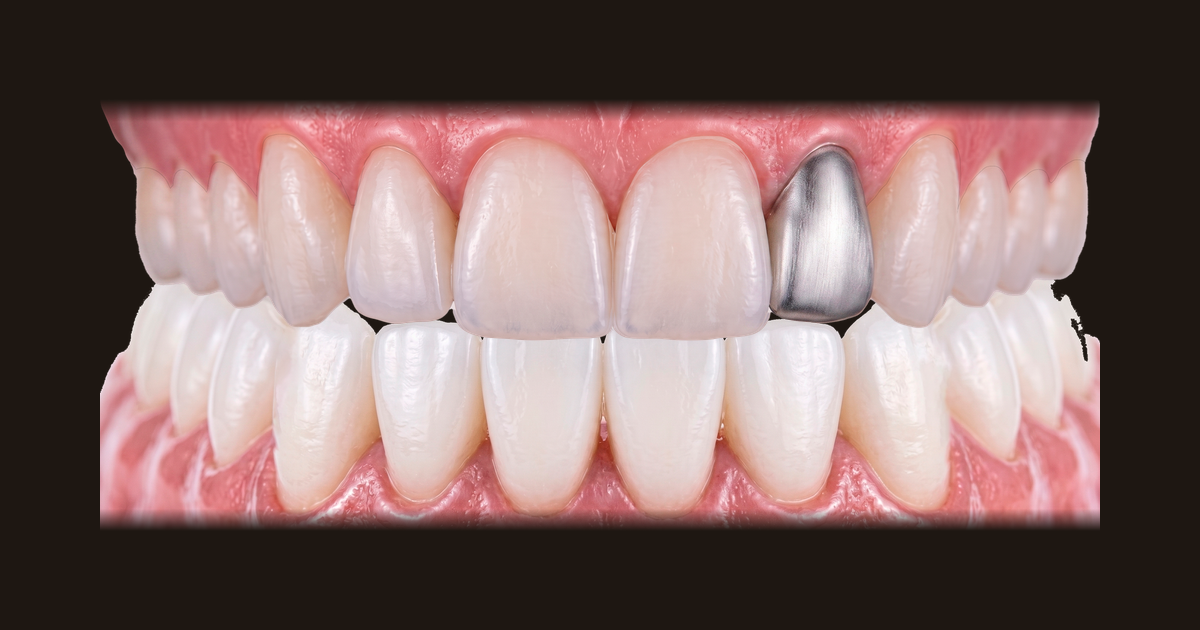
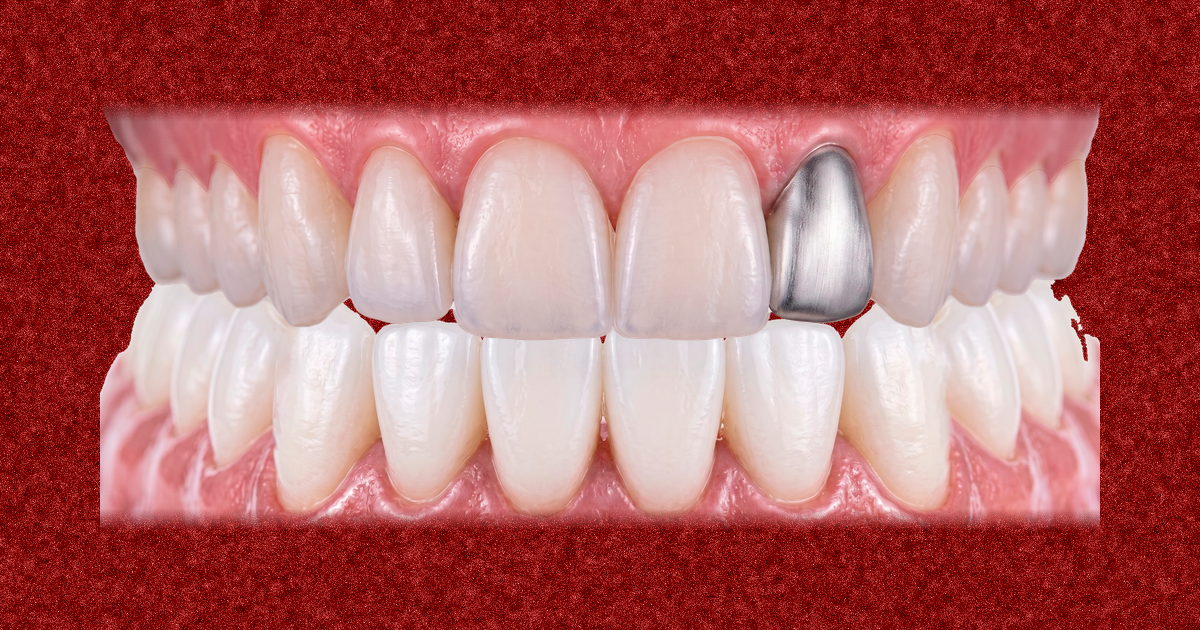
first commit

diff --git a/app/not-found.tsx b/app/not-found.tsx
@@ -1,21 +1,23 @@
-import PaintedButton from "@/components/art/PaintedButton";
+import Link from "next/link";
 
+/** 404 — de momento solo existe la home. */
 export default function NotFound() {
   return (
-    <div className="grid min-h-screen place-items-center bg-gradient-to-b from-[#16294a] to-[#1e1712] px-6 text-center">
+    <div className="grid min-h-screen place-items-center px-6 text-center">
       <div>
         <h1
-          className="display text-7xl font-black text-[var(--color-canvas)]"
-          style={{ filter: "url(#paint-wobble)" }}
+          className="-rotate-1 text-4xl text-[var(--color-circus-yellow)] md:text-6xl"
+          style={{ fontFamily: "var(--font-crayon)", filter: "url(#paint-wobble)" }}
         >
-          404
+          no busques lo que no hay
         </h1>
-        <p className="mt-4 italic opacity-80">Esta parte del cuadro todavía no fue pintada.</p>
-        <div className="mt-8">
-          <PaintedButton href="/" color="var(--color-ultramarine)">
-            Volver al lienzo
-          </PaintedButton>
-        </div>
+        <Link
+          href="/"
+          className="mt-10 inline-block text-xl text-[var(--color-circus-yellow)] underline underline-offset-8 opacity-80 transition-opacity hover:opacity-100"
+          style={{ fontFamily: "var(--font-crayon)" }}
+        >
+          volver
+        </Link>
       </div>
     </div>
   );

diff --git a/app/shows/page.tsx b/app/shows/page.tsx
@@ -1,9 +1,10 @@
 import type { Metadata } from "next";
+import { notFound } from "next/navigation";
 import Reveal from "@/components/ui/Reveal";
 import PaintedButton from "@/components/art/PaintedButton";
 import { SHOWS, type ShowStatus } from "@/data/shows";
 import { formatShowDate } from "@/lib/format";
-import { SITE } from "@/lib/site";
+import { ONLY_HOME, SITE } from "@/lib/site";
 
 export const metadata: Metadata = {
   title: "Shows",
@@ -55,6 +56,9 @@ function ShowsJsonLd() {
 }
 
 export default function ShowsPage() {
+  // De momento solo está habilitada la home (ver ONLY_HOME en lib/site.ts).
+  if (ONLY_HOME) notFound();
+
   return (
     <div className="min-h-screen bg-gradient-to-b from-[#16294a] via-[#1e1712] to-[#1e1712] px-6 pb-32 pt-36">
       <ShowsJsonLd />

diff --git a/app/merch/[handle]/page.tsx b/app/merch/[handle]/page.tsx
@@ -6,7 +6,7 @@ import AddToCart from "@/components/ui/AddToCart";
 import Reveal from "@/components/ui/Reveal";
 import { commerce } from "@/lib/commerce";
 import { formatMoney } from "@/lib/format";
-import { SITE } from "@/lib/site";
+import { ONLY_HOME, SITE } from "@/lib/site";
 
 interface PageProps {
   params: Promise<{ handle: string }>;
@@ -56,6 +56,9 @@ function ProductJsonLd({ product }: { product: NonNullable<Awaited<ReturnType<ty
 }
 
 export default async function ProductPage({ params }: PageProps) {
+  // De momento solo está habilitada la home (ver ONLY_HOME en lib/site.ts).
+  if (ONLY_HOME) notFound();
+
   const { handle } = await params;
   const product = await commerce.getProduct(handle);
   if (!product) notFound();

diff --git a/app/sitemap.ts b/app/sitemap.ts
@@ -1,16 +1,23 @@
 import type { MetadataRoute } from "next";
 import { commerce } from "@/lib/commerce";
-import { SITE } from "@/lib/site";
+import { ONLY_HOME, SITE } from "@/lib/site";
 
 export default async function sitemap(): Promise<MetadataRoute.Sitemap> {
-  const products = await commerce.getProducts();
-
-  return [
+  const home: MetadataRoute.Sitemap = [
     {
       url: SITE.url,
       changeFrequency: "weekly",
       priority: 1,
     },
+  ];
+
+  // De momento solo existe la home.
+  if (ONLY_HOME) return home;
+
+  const products = await commerce.getProducts();
+
+  return [
+    ...home,
     {
       url: `${SITE.url}/shows`,
       changeFrequency: "weekly",

diff --git a/app/merch/page.tsx b/app/merch/page.tsx
@@ -1,8 +1,9 @@
 import type { Metadata } from "next";
+import { notFound } from "next/navigation";
 import Reveal from "@/components/ui/Reveal";
 import ProductCard from "@/components/ui/ProductCard";
 import { commerce } from "@/lib/commerce";
-import { SITE } from "@/lib/site";
+import { ONLY_HOME, SITE } from "@/lib/site";
 
 export const metadata: Metadata = {
   title: "Merch",
@@ -10,6 +11,9 @@ export const metadata: Metadata = {
 };
 
 export default async function MerchPage() {
+  // De momento solo está habilitada la home (ver ONLY_HOME en lib/site.ts).
+  if (ONLY_HOME) notFound();
+
   const products = await commerce.getProducts();
 
   return (

diff --git a/lib/site.ts b/lib/site.ts
@@ -1,3 +1,9 @@
+/**
+ * De momento solo está habilitada la home.
+ * Poner en false para reactivar /shows y /merch (páginas + sitemap).
+ */
+export const ONLY_HOME = true;
+
 /** Datos globales del sitio — cambiar acá el nombre del artista. */
 export const SITE = {
   name: "Salas Flaco",
